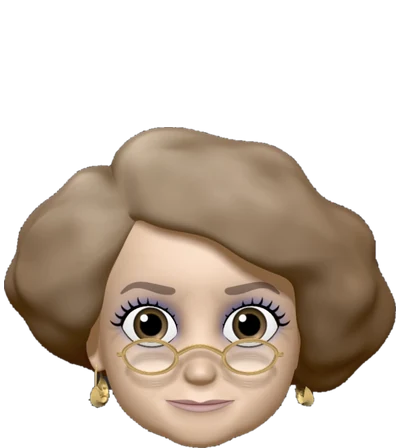
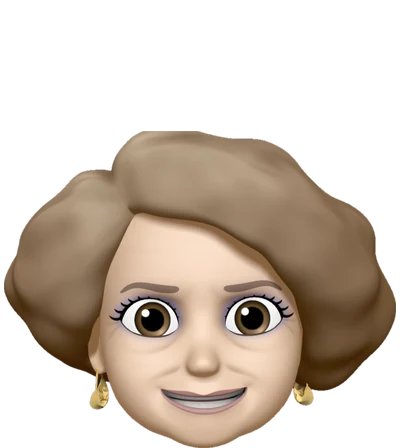
Update Mamaw's Memoji
Claude-Session: https://claude.ai/code/session_01YQS4UZuYBAr6pE6qafPyUd

diff --git a/guess-who/config.js b/guess-who/config.js
@@ -28,7 +28,7 @@ const FAMILY = [
   { name: 'Jennifer', face: 'oval', skin: 1, hair: 'lightbrown', style: 'bob', hat: 'cap', hatColor: '#3b4b69', eyes: 'blue', freckles: true, smile: 'closed', shirt: 'blue', fact: '', photo: 'memoji/jennifer.webp' },
   { name: 'Elizabeth', hair: 'blonde', style: 'long', photo: 'memoji/elizabeth.webp', fact: '' },
   { name: 'Auntie',    hair: 'gray', style: 'curly', glasses: true, earrings: true, photo: 'memoji/auntie.webp', fact: '' },
-  { name: 'Mamaw',     hair: 'brown', style: 'curly', glasses: true, earrings: true, photo: 'memoji/mamaw.webp', fact: '' },
+  { name: 'Mamaw',     hair: 'brown', style: 'curly', earrings: true, photo: 'memoji/mamaw.webp', fact: '' },
   { name: 'Uncle Don', hair: 'gray', style: 'short', glasses: true, photo: 'memoji/uncle-don.webp', fact: '' },
   { name: 'Christine', hair: 'brown', style: 'bangs', glasses: true, photo: 'memoji/christine.webp', fact: '' },
   { name: 'Sophie',    photo: 'memoji/sophie.webp', fact: '' },
